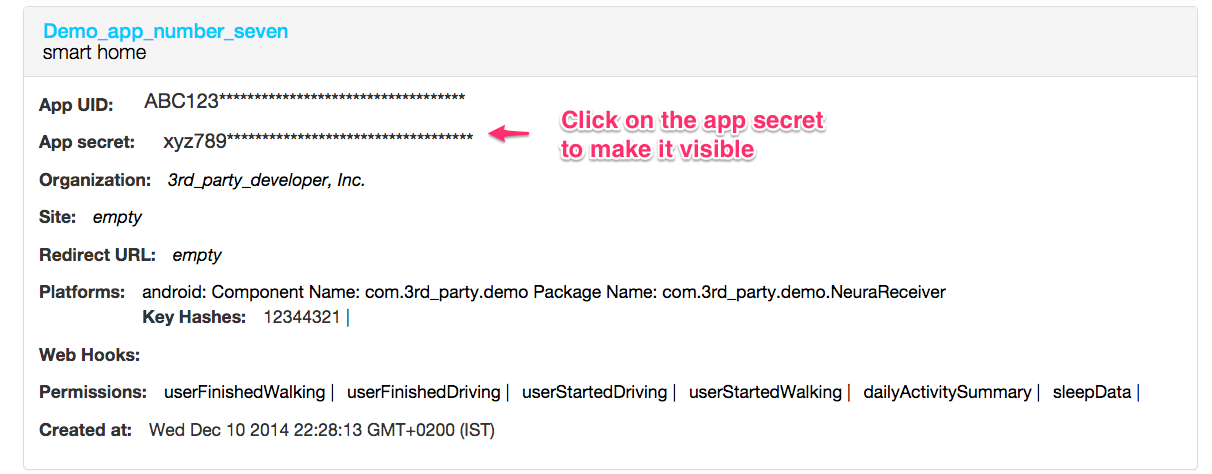
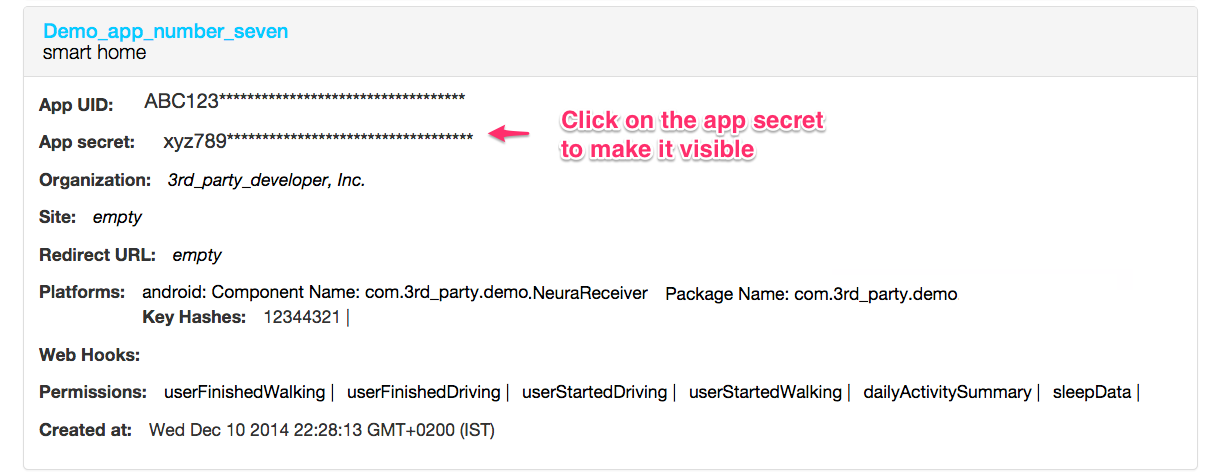
Mikimer working on Android

Changed region(s): [[0.4274, 0.5907, 0.7937, 0.6498]]

diff --git a/text/SDK_Android.md b/text/SDK_Android.md
@@ -45,9 +45,10 @@ The **Register** button is enabled only after you've completed all manditory fie
 ![register app](https://github.com/NeuraLabs/Neura_documentation/blob/master/resources/Registration_page_bottom.png)
 
 ### 2.5 Example registration
-In this example a developer from **3rd_party_developer, Inc.** created an app called **Demo_app_number_three** that relates to '*health and wellness*' and uses the iOS Bundle ID `com.neura.sample.auth3`. They have requested permission to access users' data objects: `dailyActivitySummary`, `wellnessProfile`, and `sleepData`. Neura provides the **App UID** `ABC123***********************************` and the **App secret** `xyz789***********************************`.    
+In this example a developer from **3rd_party_developer, Inc.** created an app called **Demo_app_number_seven** that relates to '*smart home*' and uses the Component Name `com.3rd_party.demo.demo.NeuraReceiver`, Package Name `com.3rd_party`, and Key Hash `12344321`.  They have declared permission for events `userFinishedWalking`, `userFinishedDriving`, `userStartedDriving`, and `userStartedWalking` as well as the data objects `dailyActivitySummary` and `sleepData`.  Neura provides the **App UID** `ABC123***********************************` and the **App secret** `xyz789***********************************`.    
 
 ![register app](https://github.com/NeuraLabs/Neura_documentation/blob/master/resources/ExampleAppRegistrationAndroid.png)
+
 
 
 
